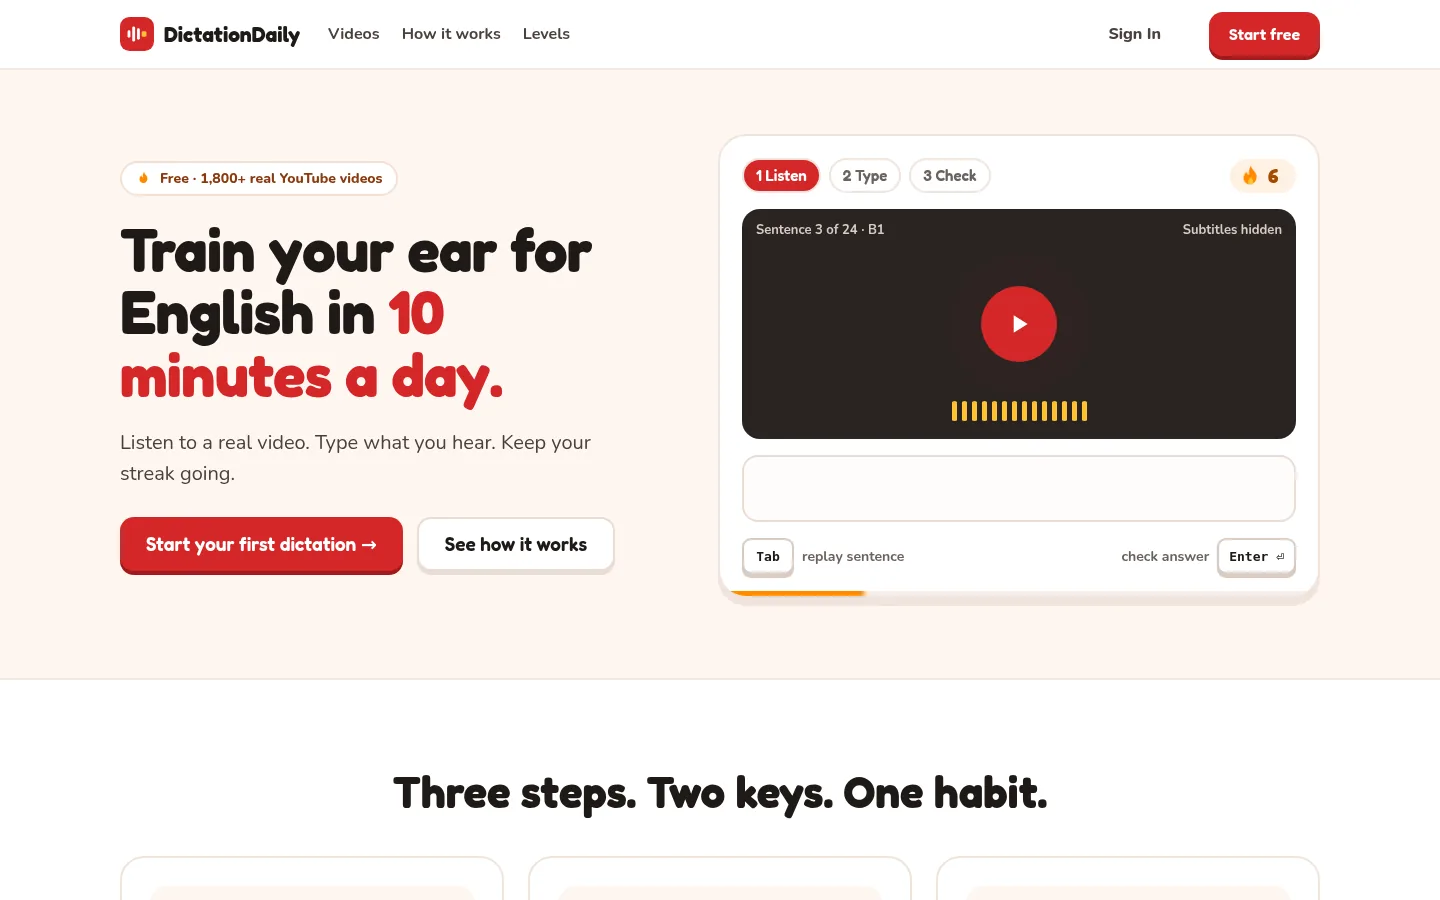
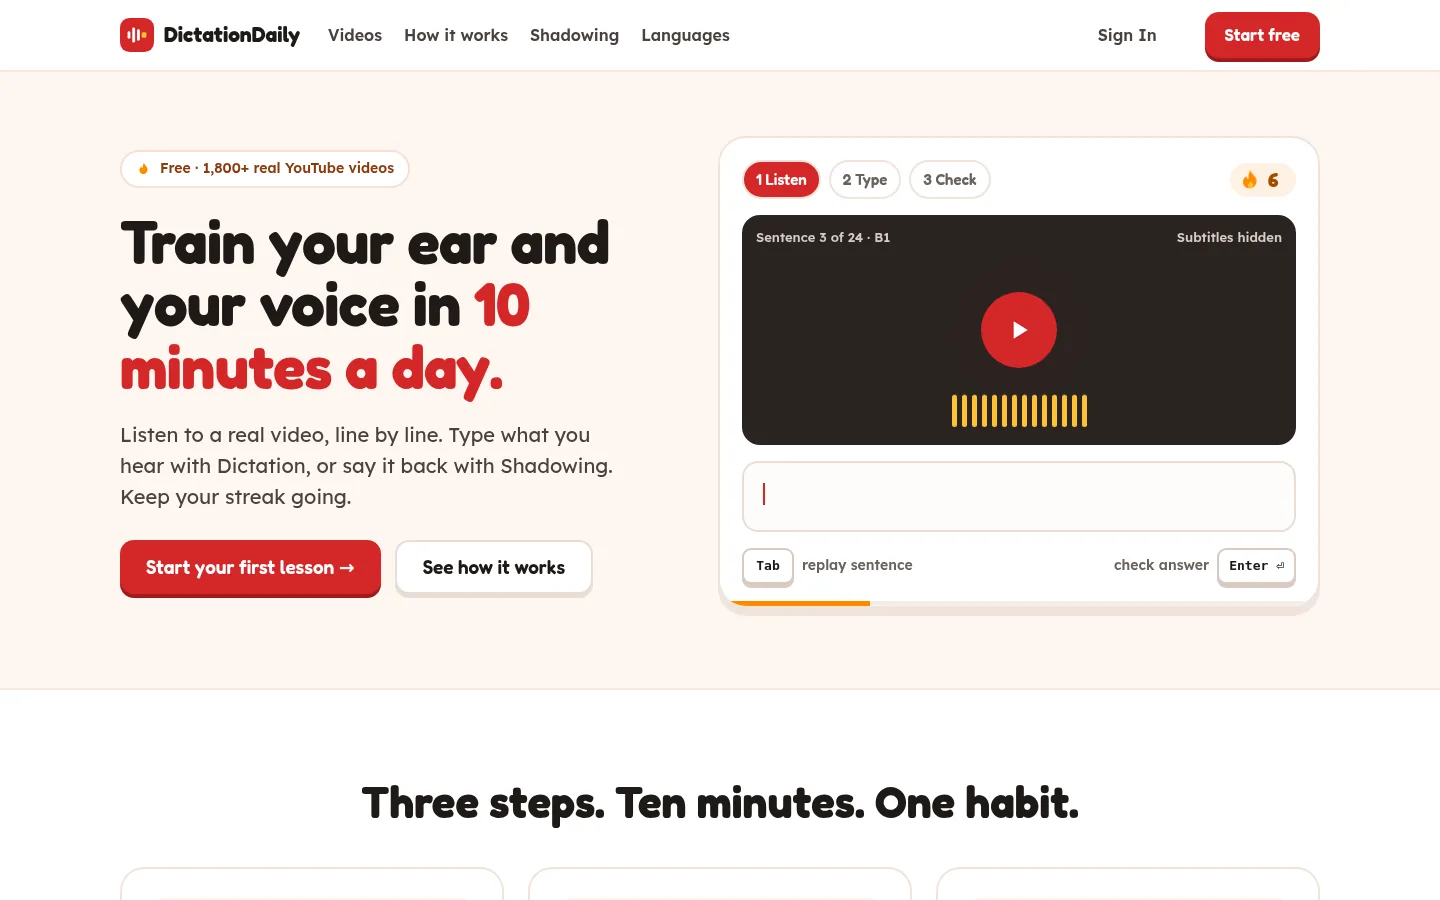
Profile: six languages, Shadowing, translations and the word card; fresh screenshots (#1)

diff --git a/profile/README.md b/profile/README.md
@@ -5,8 +5,8 @@
 <h1 align="center">Dictation Daily</h1>
 
 <p align="center">
-  Practise English listening by typing what you hear in real YouTube videos, one short clip at a time.<br>
-  Free, no ads, works in the browser on your computer or phone.
+  Train your ear and your voice with real YouTube videos, one sentence at a time.<br>
+  English, French, German, Italian, Spanish or Portuguese. Free, no ads, in the browser on your computer or phone.
 </p>
 
 <p align="center">
@@ -18,14 +18,18 @@
 
 ## How it works
 
-1. Pick a video from the library: by topic, level (A2 to C1) or length.
-2. Press **START**. The first clip plays.
-3. Type what you heard and press `Enter`.
-4. The app marks each word: right, almost right, missing or extra. Fix it and press `Enter` again until the green tick appears.
-5. Go on to the next clip. Press `Tab` to listen again, or ask for a hint when a word will not come.
+1. Pick the language you want to learn, then a video: by topic, level (B1 to C2), length or speed.
+2. Press **START**. The first sentence plays.
+3. **Dictation**: type what you heard and press `Enter`. The app marks each word: right, almost right, missing or extra. Fix it until the green tick appears, then press `Space` for the next sentence. `Tab` replays it.
+4. **Shadowing** (Pro, the first 3 lines of every video free): say the sentence right after the speaker and see which words came through clearly.
+5. Signed in, every sentence you finish shows its **translation** in your language, and you can **tap any word** to hear it, see what it means here and read its dictionary entry.
 
 <p align="center">
   <img src="lesson-hint.webp" alt="A lesson with a hint: the sentence is checked word by word" width="720">
+</p>
+
+<p align="center">
+  <img src="lesson-french.webp" alt="A French lesson: the sentence is right, and the place of its translation asks to sign in" width="720">
 </p>
 
 Sign in with Google and the app saves your progress, your learning time and a **daily streak**, so you can practise a little every day and pick up where you left off. You can practise without an account too.
@@ -37,9 +41,10 @@ Sign in with Google and the app saves your progress, your learning time and a **
 | **App** | https://dictationdaily.com |
 | **User guide** | https://docs.dictationdaily.com (short, illustrated steps in simple English) |
 | **Guide source** | [dictationdaily.github.io](https://github.com/DictationDaily/dictationdaily.github.io): the guide site, built with Tailwind CSS and published with GitHub Pages |
+| **Lesson pipeline** | [dictationdaily-worker](https://github.com/DictationDaily/dictationdaily-worker) (what turns a video into a lesson on a pipeline computer) and [api.dictationdaily.com](https://github.com/DictationDaily/api.dictationdaily.com) (the task pool it pulls from) |
 
-Found a mistake in the guide, or a video that does not play? Write to **support@dictationdaily.com** (see the [contact page](https://dictationdaily.com/contact)), or open an issue on the guide repository and tell us the page or the video. What the app stores about you, and how to download or delete it, is on the [privacy page](https://dictationdaily.com/privacy) and your [Settings](https://dictationdaily.com/settings) page.
+Found a mistake in a transcript, a translation or a word card? Every lesson has **Report a mistake** on the word card, or write to **support@dictationdaily.com** (see the [contact page](https://dictationdaily.com/contact)). What the app stores about you, and how to download or delete it, is on the [privacy page](https://dictationdaily.com/privacy) and your [Settings](https://dictationdaily.com/settings) page.
 
 ## Built with
 
-Next.js on Cloudflare Workers (pre-rendered pages, D1, R2), Auth.js with Google sign-in, MUI, and YouTube for the videos. Transcripts are produced with Whisper.
+Next.js on Cloudflare Workers (pre-rendered pages, D1, R2), Auth.js with Google sign-in, MUI, and YouTube for the videos. Lessons are made by the pipeline: yt-dlp, Whisper for the timing, the subtitles burned into Easy Languages videos read with Tesseract, a local LLM for levels and topics; translations and word cards come from a cloud model when a learner first needs them.
